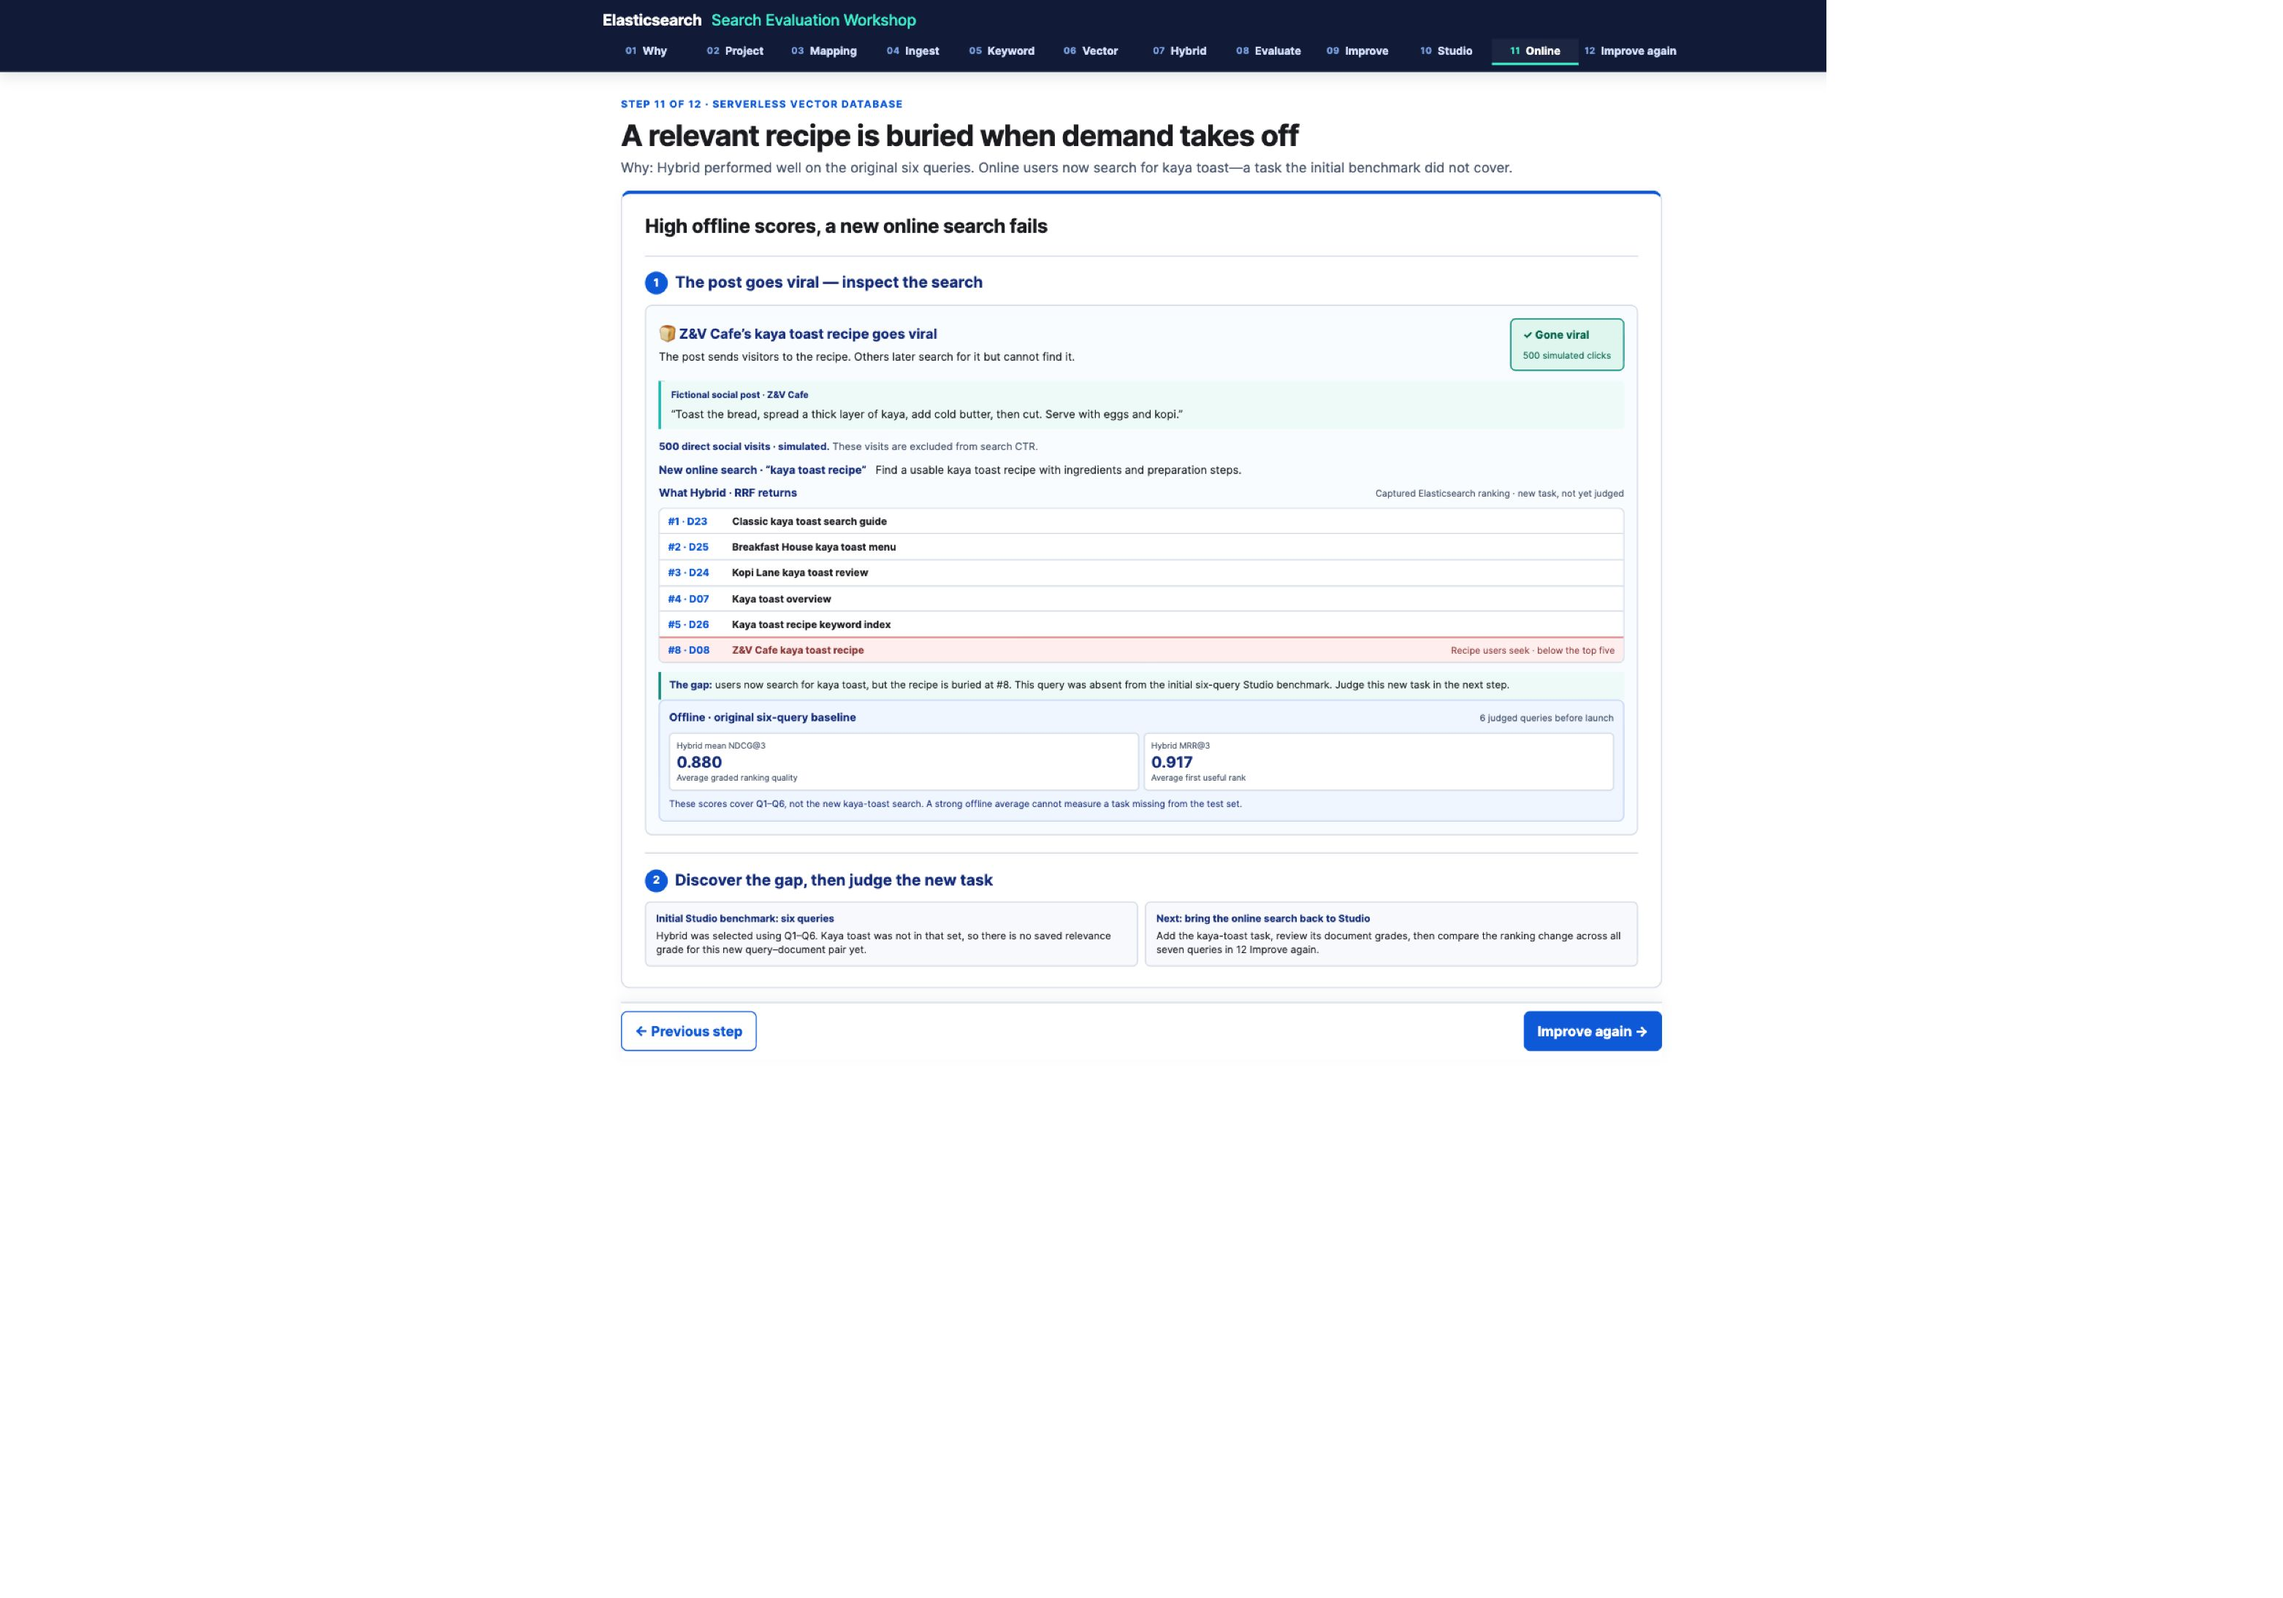
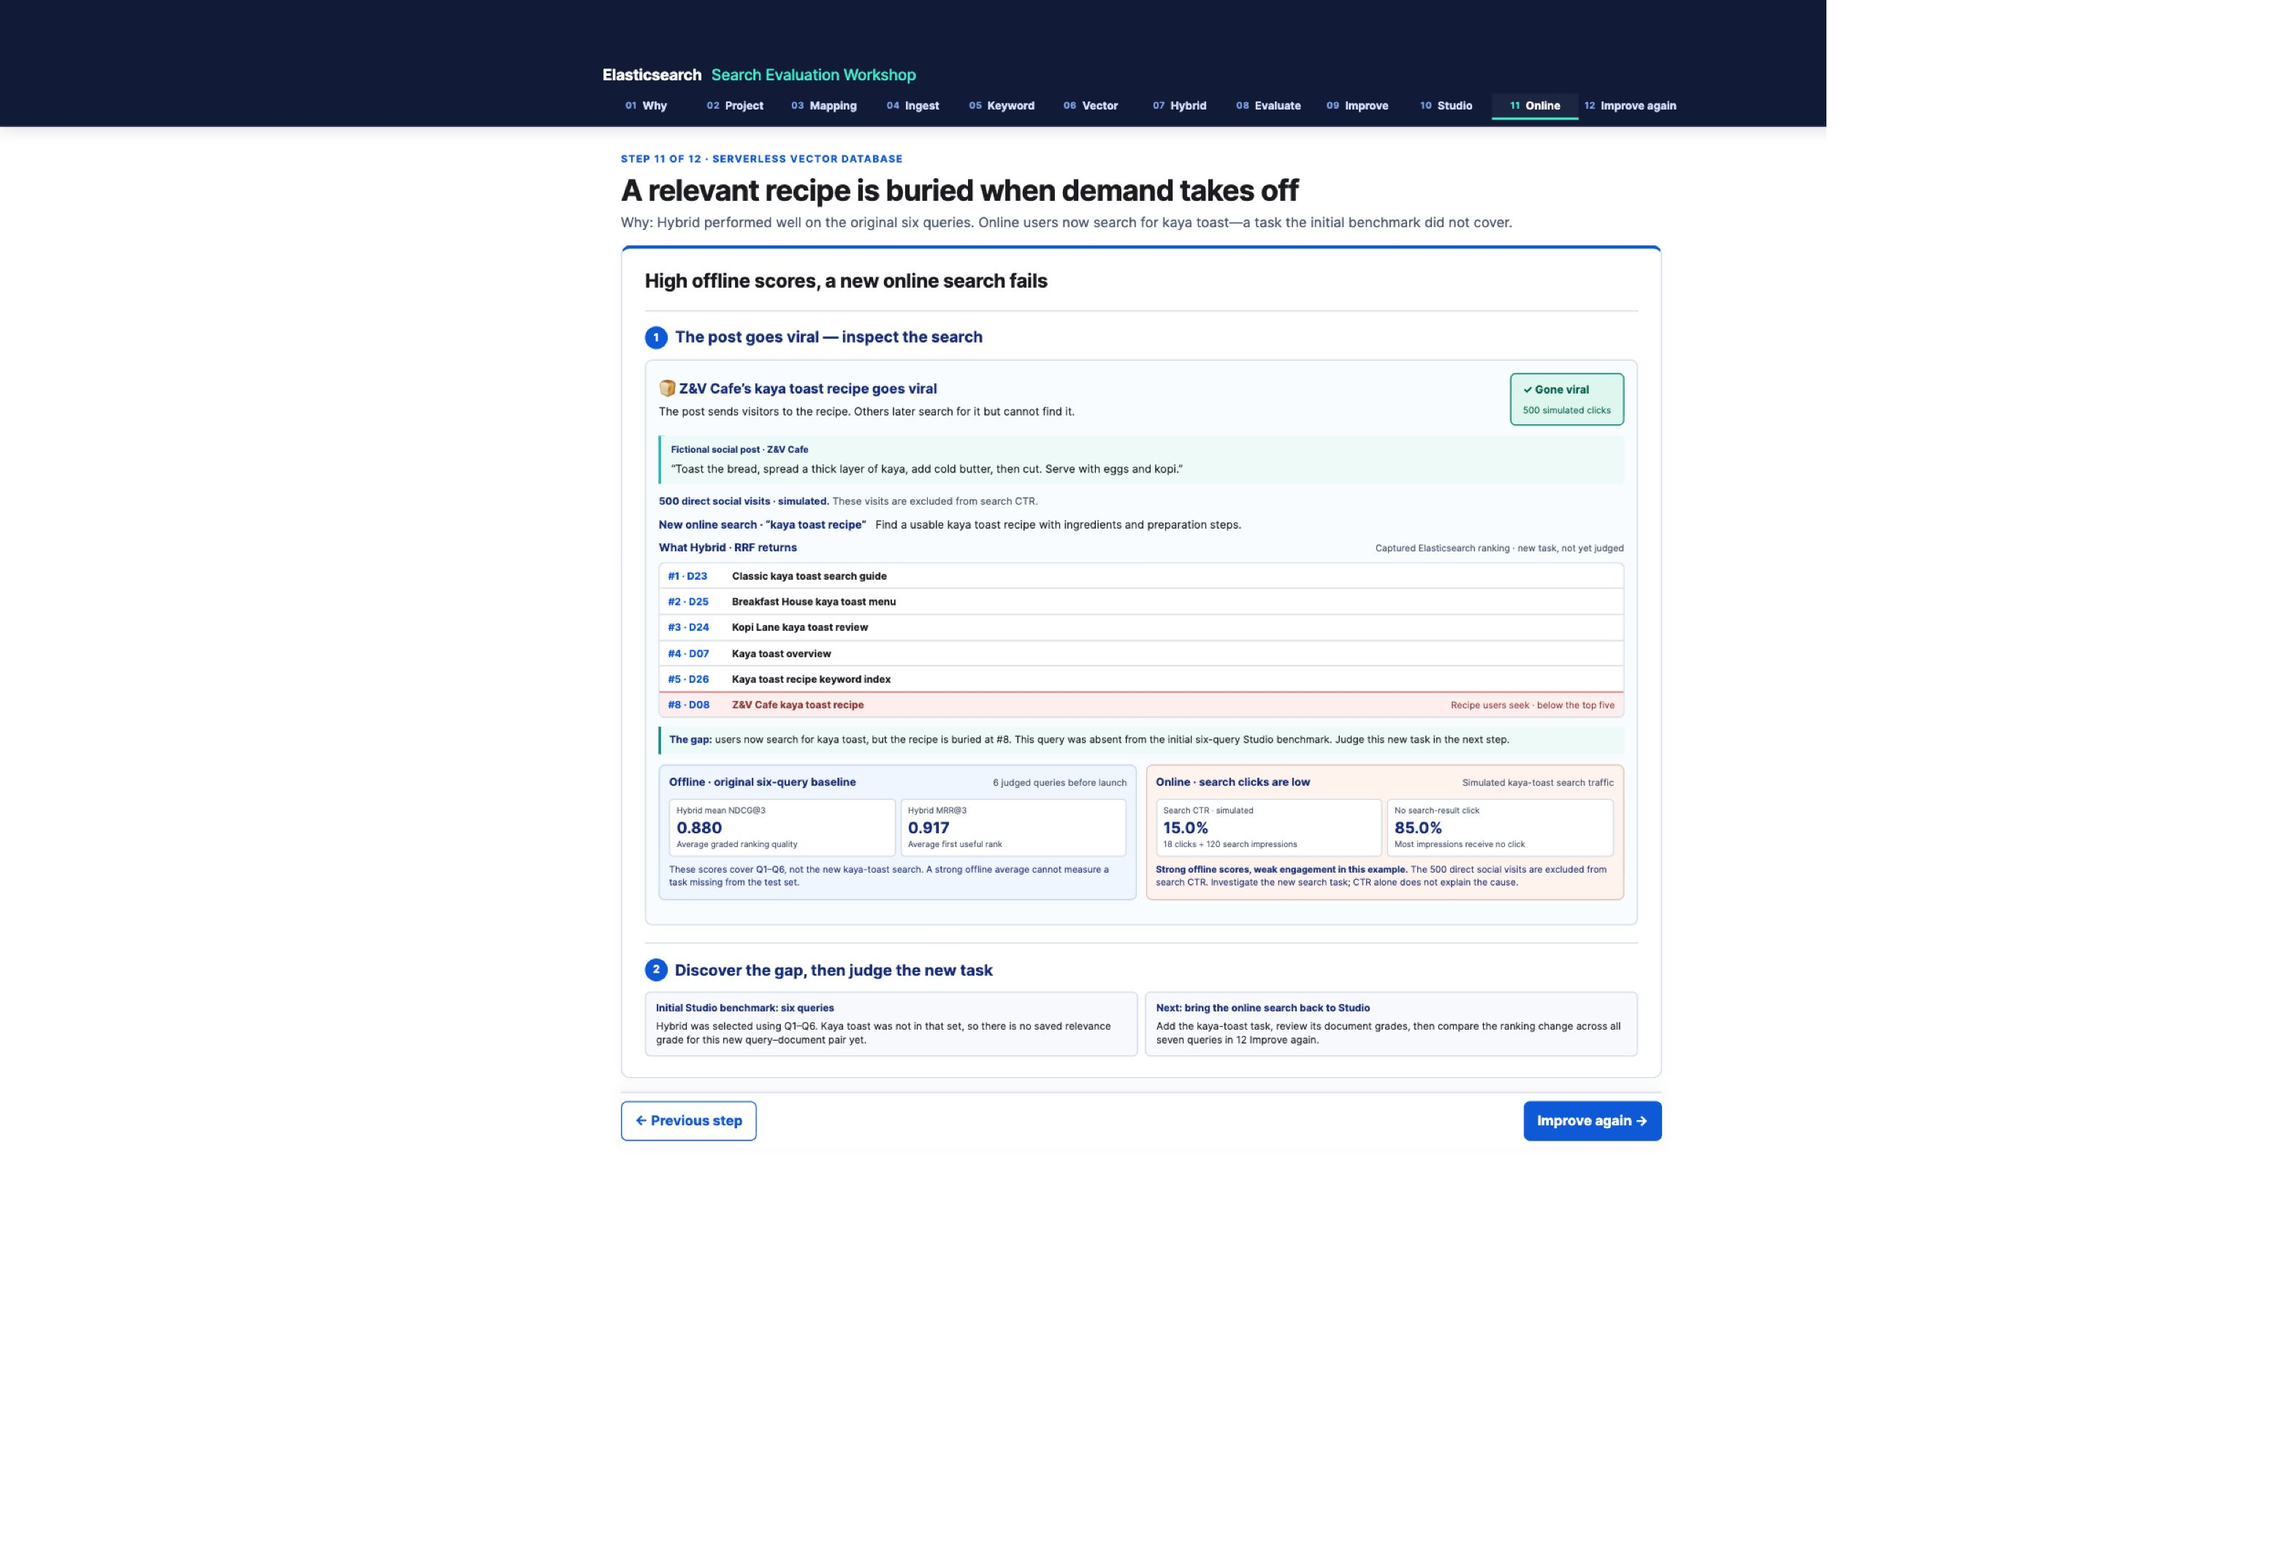
Show low simulated search CTR beside offline scores in Online

Changed region(s): [[0.0, 0.0, 0.807, 0.7496], [0.2794, 0.7184, 0.3414, 0.7496], [0.4346, 0.6559, 0.4656, 0.6872]]

diff --git a/app.js b/app.js
@@ -356,7 +356,9 @@ function viralBaseline(){
 function onlineMetrics(){
   const original=data.queries.map(q=>observed(q.id,'hybrid')).filter(Boolean);
   const average=key=>original.length?original.reduce((sum,item)=>sum+item[key],0)/original.length:null;
-  return `<section class="online-metric-group" aria-label="Six-query pre-launch baseline"><div class="online-metric-heading"><b>Offline · original six-query baseline</b><small>${original.length} judged queries before launch</small></div><div class="online-metric-cards"><div><small>Hybrid mean NDCG@3</small><strong>${fmt(average('ndcg'))}</strong><span>Average graded ranking quality</span></div><div><small>Hybrid MRR@3</small><strong>${fmt(average('rr'))}</strong><span>Average first useful rank</span></div></div><p>These scores cover Q1–Q6, not the new kaya-toast search. A strong offline average cannot measure a task missing from the test set.</p></section>`;
+  const sample=data.onlineSimulation;
+  const ctr=100*sample.searchResultClicks/sample.searchResultImpressions;
+  return `<div class="online-metric-story"><section class="online-metric-group" aria-label="Six-query pre-launch baseline"><div class="online-metric-heading"><b>Offline · original six-query baseline</b><small>${original.length} judged queries before launch</small></div><div class="online-metric-cards"><div><small>Hybrid mean NDCG@3</small><strong>${fmt(average('ndcg'))}</strong><span>Average graded ranking quality</span></div><div><small>Hybrid MRR@3</small><strong>${fmt(average('rr'))}</strong><span>Average first useful rank</span></div></div><p>These scores cover Q1–Q6, not the new kaya-toast search. A strong offline average cannot measure a task missing from the test set.</p></section><section class="online-metric-group online-metric-group-sim online-search-problem"><div class="online-metric-heading"><b>Online · search clicks are low</b><small>Simulated kaya-toast search traffic</small></div><div class="online-metric-cards"><div><small>Search CTR · simulated</small><strong>${ctr.toFixed(1)}%</strong><span>${sample.searchResultClicks} clicks ÷ ${sample.searchResultImpressions} search impressions</span></div><div><small>No search-result click</small><strong>${(100-ctr).toFixed(1)}%</strong><span>Most impressions receive no click</span></div></div><p><b>Strong offline scores, weak engagement in this example.</b> The ${sample.directReferrals} direct social visits are excluded from search CTR. Investigate the new search task; CTR alone does not explain the cause.</p></section></div>`;
 }
 function onlineOutcomeSummary(){
   const {A,B}=data.abSimulation;

diff --git a/style.css b/style.css
@@ -587,3 +587,5 @@ blockquote { border-left: 4px solid var(--teal); padding-left: 14px; margin: 14p
 .studio-benchmark-image img { display:block; width:100%; height:auto; border:1px solid var(--line); border-radius:7px; }
 .studio-benchmark-highlight { position:absolute; left:6.8%; top:42.5%; width:89.4%; height:5.7%; border:3px solid #008F83; border-radius:4px; box-sizing:border-box; pointer-events:none; }
 .studio-benchmark-evidence figcaption { margin-top:7px; color:var(--muted); font-size:11px; }
+
+.online-search-problem .online-metric-cards { grid-template-columns: repeat(2,minmax(0,1fr)); }
